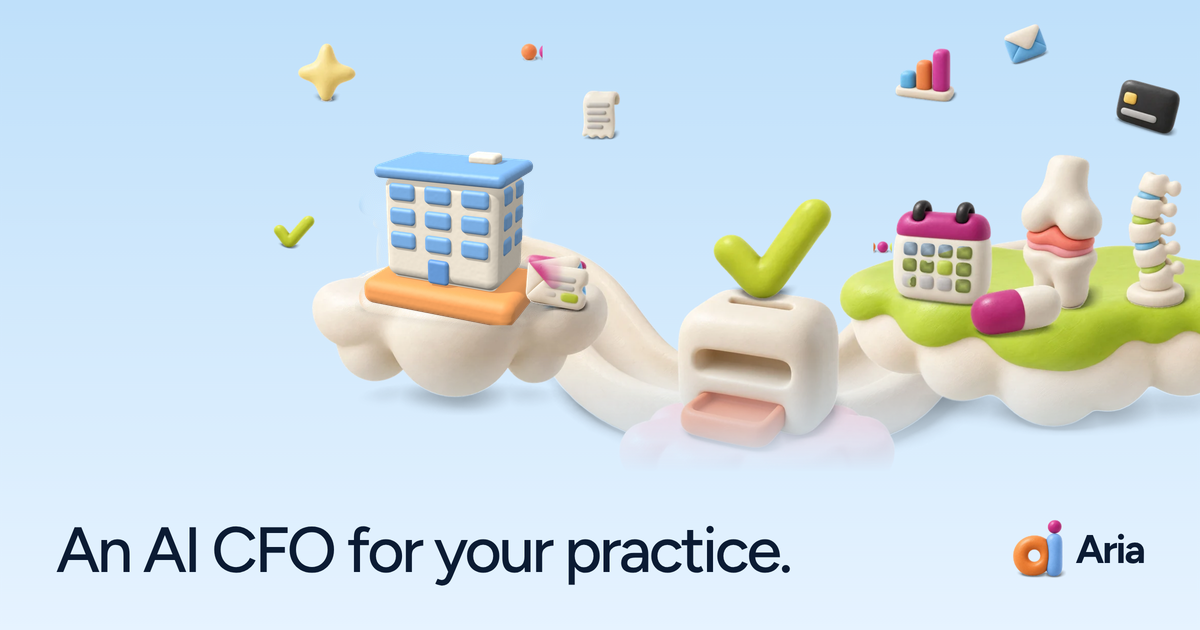
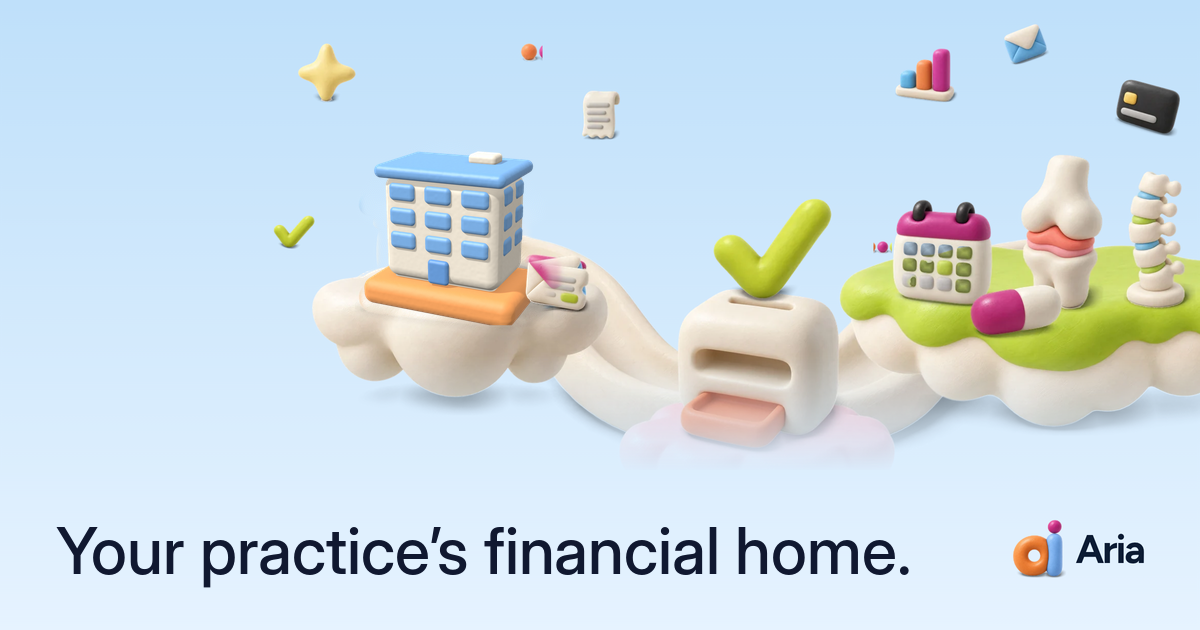
v87: home hero and share preview reframed as the practice's financial home; card as the starting point
Claude-Session: https://claude.ai/code/session_01BdY5oeBxTr2B76PjyxR4w2

Changed region(s): [[0.0308, 0.8143, 0.7708, 0.9349]]

diff --git a/index.html b/index.html
@@ -3,21 +3,21 @@
 <head>
 <meta charset="utf-8">
 <meta name="viewport" content="width=device-width, initial-scale=1, viewport-fit=cover">
-<title>Aria | An AI CFO for independent medical practices</title>
-<meta name="description" content="Modern cards, expenses, banking, accounting, and more, built for independent medical practices. Join the waitlist.">
-<meta property="og:title" content="Aria | An AI CFO for independent medical practices">
-<meta property="og:description" content="Modern cards, expenses, banking, accounting, and more, built for independent medical practices. Join the waitlist.">
+<title>Aria | Your practice’s financial home</title>
+<meta name="description" content="Cards, bill pay, accounting and insurer payments in one place, built for independent medical practices. Start with a card that earns 2% back on supplies.">
+<meta property="og:title" content="Aria | Your practice’s financial home">
+<meta property="og:description" content="Cards, bill pay, accounting and insurer payments in one place, built for independent medical practices. Start with a card that earns 2% back on supplies.">
 <meta property="og:type" content="website">
 <meta property="og:url" content="https://ariapractice.com/">
 <meta property="og:site_name" content="Aria">
-<meta property="og:image" content="https://ariapractice.com/og.png?v=4">
+<meta property="og:image" content="https://ariapractice.com/og.png?v=5">
 <meta property="og:image:width" content="1200">
 <meta property="og:image:height" content="630">
-<meta property="og:image:alt" content="Clay illustration of a payment being checked on its way to a practice, next to the line: An AI CFO for your practice.">
+<meta property="og:image:alt" content="Clay illustration of a payment being checked on its way to a practice, next to the line: Your practice’s financial home.">
 <meta name="twitter:card" content="summary_large_image">
-<meta name="twitter:title" content="Aria | An AI CFO for independent medical practices">
-<meta name="twitter:description" content="Modern cards, expenses, banking, accounting, and more, built for independent medical practices. Join the waitlist.">
-<meta name="twitter:image" content="https://ariapractice.com/og.png?v=4">
+<meta name="twitter:title" content="Aria | Your practice’s financial home">
+<meta name="twitter:description" content="Cards, bill pay, accounting and insurer payments in one place, built for independent medical practices. Start with a card that earns 2% back on supplies.">
+<meta name="twitter:image" content="https://ariapractice.com/og.png?v=5">
 <meta name="theme-color" content="#ffffff">
 <meta name="color-scheme" content="light">
 <link rel="icon" href="/favicon.ico" sizes="48x48">
@@ -2782,10 +2782,10 @@ h3,.tile-copy h3,.steps h3{font-weight:600}
   <div class="hx5-band">
     <div class="wrap hx5-copy">
       <div class="hx5-head">
-      <h1>An AI CFO for <span class="hl">your practice.</span></h1>
+      <h1>Your practice’s <span class="hl">financial home.</span></h1>
       </div>
       <div class="hx5-act">
-      <p class="hx5-sub">Modern cards, expenses, banking, accounting, and more — built for independent medical practices.</p>
+      <p class="hx5-sub">Cards, bill pay, accounting and insurer payments in one place, run by an AI CFO. Start with a card that earns 2% back on supplies.</p>
       <form class="hx5-form" id="hx-signup" novalidate>
         <label class="sr" for="hx-email">Work email</label>
         <input id="hx-email" type="email" autocomplete="email" inputmode="email" placeholder="Work email">
@@ -3576,7 +3576,7 @@ h3,.tile-copy h3,.steps h3{font-weight:600}
 <footer class="foot"><div class="foot-scene foot-scene-img" aria-hidden="true"><svg class="clay scene sc-footer" viewBox="0 0 1100 205" focusable="false"><use href="#as-footer"/></svg></div>
   <div class="wrap">
     <div class="foot-grid">
-      <div class="foot-brand"><a class="logo" href="#top" aria-label="Aria, back to overview"><svg class="mark mark-clay" viewBox="0 0 145 160" aria-hidden="true"><use href="#ac-logo"/></svg><span>Aria</span></a><p>Modern cards, expenses, banking, accounting, and more, built for independent medical practices.</p><a class="btn btn-primary small" href="#waitlist" data-mode="waitlist">Join the waitlist<svg class="harrow" width="10" height="10" viewBox="0 0 10 10" aria-hidden="true"><path class="hl" d="M0 5h7"/><path class="ht" d="M1 1l4 4-4 4"/></svg></a></div>
+      <div class="foot-brand"><a class="logo" href="#top" aria-label="Aria, back to overview"><svg class="mark mark-clay" viewBox="0 0 145 160" aria-hidden="true"><use href="#ac-logo"/></svg><span>Aria</span></a><p>Your practice’s financial home: cards, bill pay, accounting and insurer payments in one place.</p><a class="btn btn-primary small" href="#waitlist" data-mode="waitlist">Join the waitlist<svg class="harrow" width="10" height="10" viewBox="0 0 10 10" aria-hidden="true"><path class="hl" d="M0 5h7"/><path class="ht" d="M1 1l4 4-4 4"/></svg></a></div>
       <div><h3>Products</h3><a href="#spend">Aria Card</a><a href="#expenses">Expense Management</a><a href="#bill-pay">Automated Accounts Payable</a><a href="#accounting">Bookkeeping &amp; Close</a><a href="#see">Underpayment Checks</a><a href="#cfo-hub">CFO Hub</a><a href="#bridge">Bridge Payments</a><a href="#treasury">Treasury</a><a href="#denials">Denial Management</a><a href="#patient-payments">Patient Payments</a><a href="#marketplace">Marketplace preview</a></div>
       <div><h3>Specialties</h3><a href="#in-primary">Primary & behavioral care</a><a href="#in-specialists">Medical specialists</a><a href="#in-infusion">Infusion & buy-and-bill</a><a href="#in-surgical">Surgical & procedural</a><a href="#in-facilities">Surgery centers & diagnostics</a><a href="#in-dental">Dental</a><a href="#in-eye">Eye care</a><a href="#in-aesthetics">Aesthetics & rehab</a><a href="#in-postacute">Post-acute & pharmacy</a><a href="#in-animal">Animal care</a><a href="#specialties">All specialties</a></div>
       <div><h3>Company</h3><a href="#how">How it works</a><a href="#trust">Trust and security</a><a href="#faq">Questions</a><a href="#waitlist" data-mode="talk">Talk to us</a></div>
